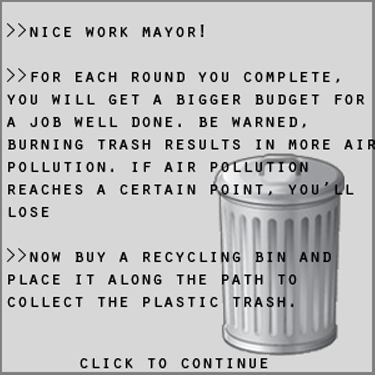
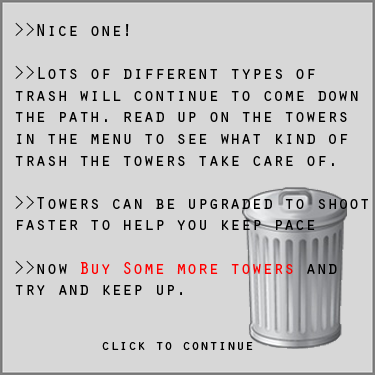
Added messages and adjusted some of the levels. Need to add the final message titled "welcomeFinish.png"

diff --git a/src/WaveGen.java b/src/WaveGen.java
@@ -24,7 +24,7 @@ public class WaveGen {
 
 
 		if (level ==1){
-			num =10;
+			num =15;
 			spacing = 135;
 			speed =2;
 			types.add(Util.TrashType.paper);
@@ -74,7 +74,7 @@ public class WaveGen {
 			spacing= 50;
 			speed = 3;
 			types.add(Util.TrashType.aluminum);
-			types.add(Util.TrashType.metal);  //TODO Metal Warning
+			types.add(Util.TrashType.metal);  
 
 		}else if (level ==9){
 			num = 45;
@@ -104,7 +104,7 @@ public class WaveGen {
 			num = 20;
 			spacing= 40;
 			speed = 4;
-			types.add(Util.TrashType.food); //TODO Food warning
+			types.add(Util.TrashType.food);
 			types.add(Util.TrashType.paper);
 		}else if (level ==13){
 			num = 40;
@@ -248,7 +248,6 @@ public class WaveGen {
 
 	public ArrayList<ImageIcon> getMessages(int level) {
 		ArrayList<ImageIcon> temp = new ArrayList<ImageIcon>();
-		// JJrandomShit
 		if (level == 1)
 			temp.add(new ImageIcon(this.getClass().getResource(
 			"pics/welcome1.png")));
@@ -258,6 +257,15 @@ public class WaveGen {
 		if (level == 3)
 			temp.add(new ImageIcon(this.getClass().getResource(
 			"pics/welcome3.png")));
+		if (level == 8)
+			temp.add(new ImageIcon(this.getClass().getResource(
+			"pics/welcome4.png")));
+		if (level == 12)
+			temp.add(new ImageIcon(this.getClass().getResource(
+			"pics/welcome5.png")));
+		if (level == 16)
+			temp.add(new ImageIcon(this.getClass().getResource(
+			"pics/welcome6.png")));
 		return temp;
 	}
 }

diff --git a/src/Tower.java b/src/Tower.java
@@ -72,8 +72,8 @@ public class Tower {
 		if(valid){
 			ii = new ImageIcon(this.getClass().getResource(
 				"pics/arrow" + dir + ".png"));
-			System.out.println(this.getClass().getResource(
-					"pics/arrow" + dir + ".png"));
+	//		System.out.println(this.getClass().getResource(
+	//				"pics/arrow" + dir + ".png"));
 		}else{
 			ii = new ImageIcon(this.getClass().getResource(
 					"pics/arrow" + dir + "Invalid.png"));

diff --git a/src/Board.java b/src/Board.java
@@ -275,6 +275,10 @@ public class Board extends JPanel implements Runnable {
 		beforeTime = System.currentTimeMillis();
 
 		int counter = 0;
+		
+		//SWEET HACKZ
+		//level=25;
+		//budget=10000000;
 	
 	
 		
